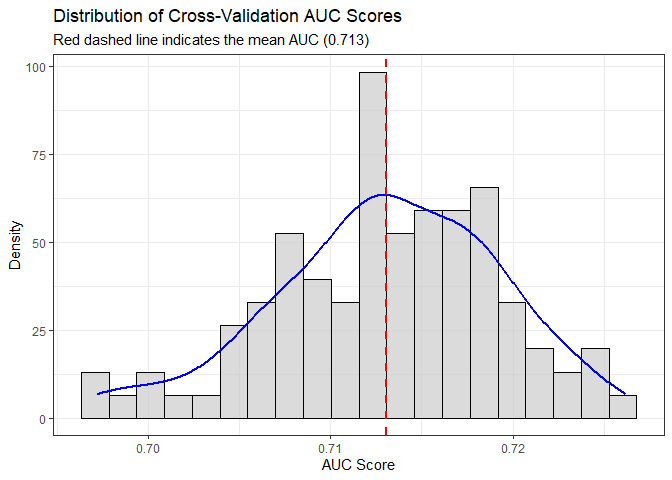
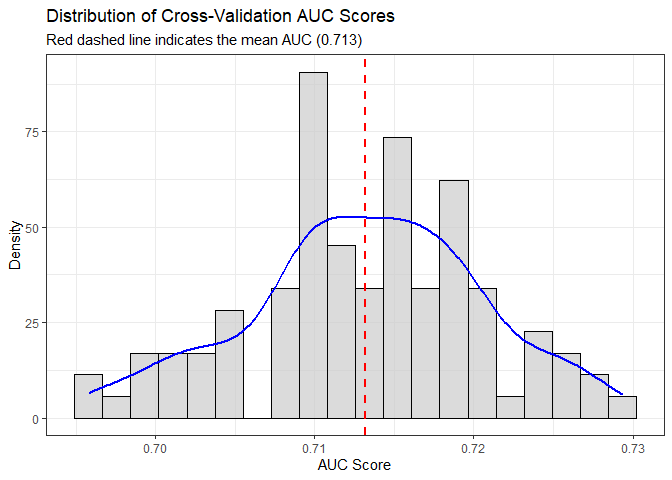
add update

diff --git a/README.md b/README.md
@@ -80,7 +80,6 @@ library(raster)
 #> 
 #>     select
 library(dismo)
-library(rJava)
 
 # Load the raw occurrence data
 # This path might need to be adjusted based on your project structure.
@@ -576,7 +575,7 @@ auc_original
 #> 
 #> Summary of AUC Scores:
 #>   Mean_AUC SD_AUC Median_AUC Min_AUC Max_AUC
-#> 1    0.708  0.005      0.707   0.697   0.718
+#> 1    0.708  0.005      0.708   0.696   0.726
 #> 
 #> To see the distribution of AUC scores, run plot(your_results_object).
 
@@ -632,7 +631,7 @@ auc_thinned
 #> 
 #> Summary of AUC Scores:
 #>   Mean_AUC SD_AUC Median_AUC Min_AUC Max_AUC
-#> 1    0.713  0.006      0.712   0.702   0.726
+#> 1    0.713  0.007      0.714   0.696   0.729
 #> 
 #> To see the distribution of AUC scores, run plot(your_results_object).
 
@@ -650,13 +649,13 @@ auc_ttest
 #>  Welch Two Sample t-test
 #> 
 #> data:  auc_original$all_auc_scores and auc_thinned$all_auc_scores
-#> t = -6.9145, df = 189.01, p-value = 7.026e-11
+#> t = -5.8961, df = 182.09, p-value = 1.772e-08
 #> alternative hypothesis: true difference in means is not equal to 0
 #> 95 percent confidence interval:
-#>  -0.006521696 -0.003626568
+#>  -0.007159729 -0.003569361
 #> sample estimates:
 #> mean of x mean of y 
-#> 0.7078872 0.7129613
+#> 0.7078035 0.7131680
 
 # --- 5. Visualize the Comparison ---
 # Combine results into a data frame for plotting
